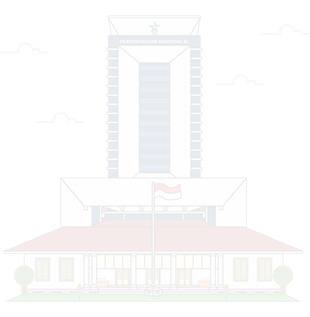
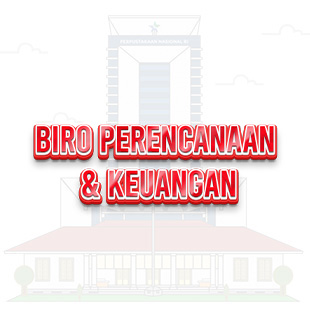
galeri per pusat

Changed region(s): [[0.0871, 0.3691, 0.9, 0.6814]]

diff --git a/src/data/galleryOne.js b/src/data/galleryOne.js
@@ -8,6 +8,18 @@ const galleryOne = {
     "gallery-one-img-3.jpg",
     "gallery-one-img-4.jpg",
     "gallery-one-img-5.jpg",
+    "gallery-one-img-6.jpg",
+    "gallery-one-img-7.jpg",
+    "gallery-one-img-8.jpg",
+    "gallery-one-img-9.jpg",
+    "gallery-one-img-10.jpg",
+    "gallery-one-img-11.jpg",
+    "gallery-one-img-12.jpg",
+    "gallery-one-img-13.jpg",
+    "gallery-one-img-14.jpg",
+    "gallery-one-img-15.jpg",
+    "gallery-one-img-16.jpg",
+    "gallery-one-img-17.jpg",
   ],
 };
 

diff --git a/src/components/GalleryOne/SingleGallery.js b/src/components/GalleryOne/SingleGallery.js
@@ -9,11 +9,12 @@ const SingleGallery = ({ image = "" }) => {
         <div className="gallery-one__iocn">
           <a href={`@/images/gallery/${image}`}>
             <i className="fab fa-youtube"></i>
-            <h4>Biro SDM dan Umum</h4>
+            {/* <h4>Biro SDM dan Umum</h4> */}
           </a>
         </div>
       </div>
     </li>
+    
   );
 };
 
